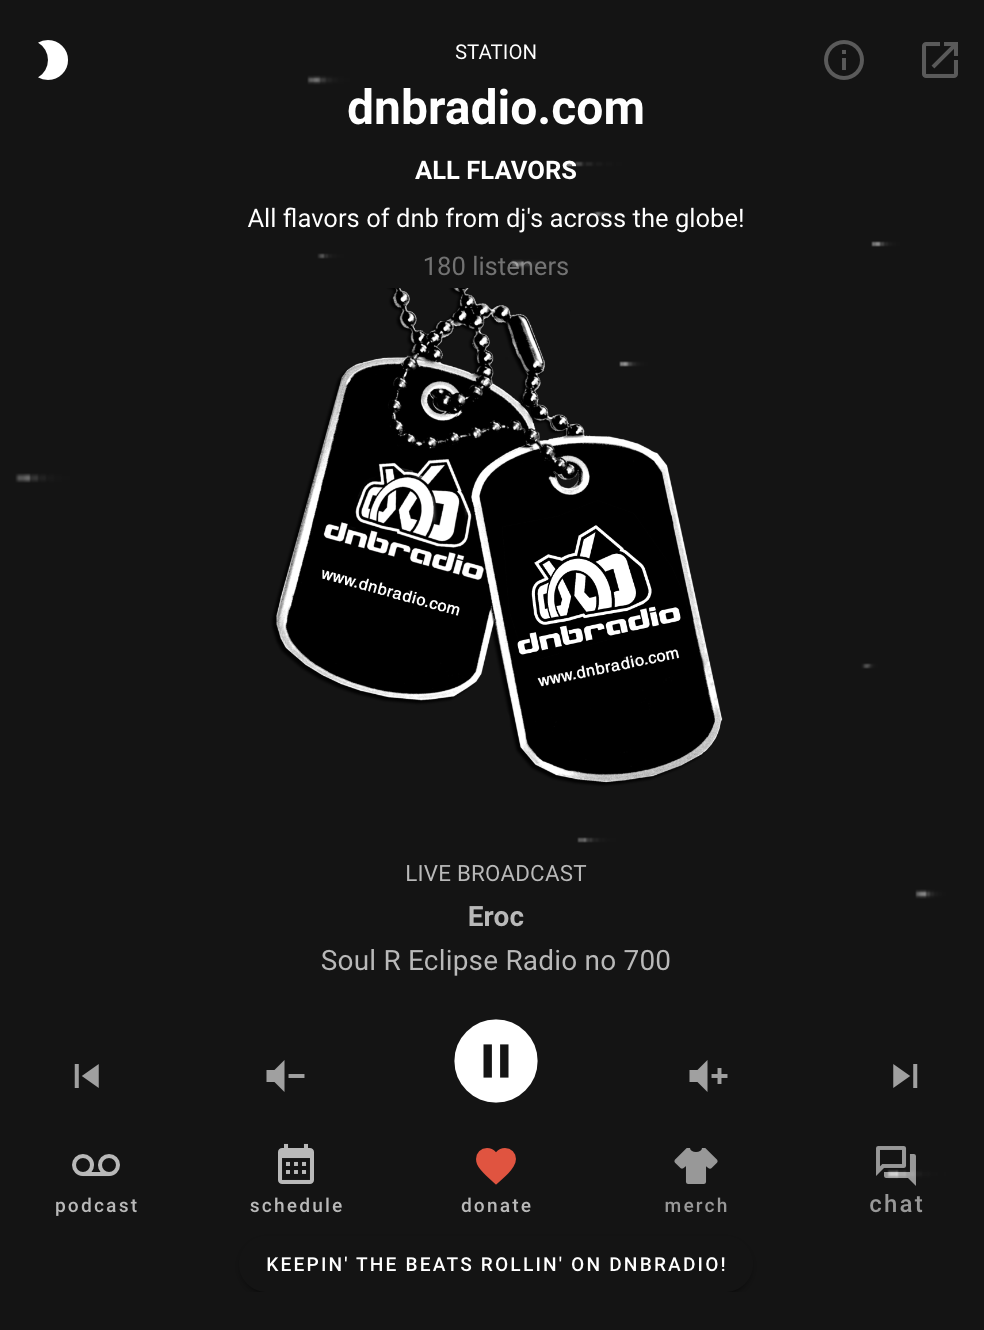
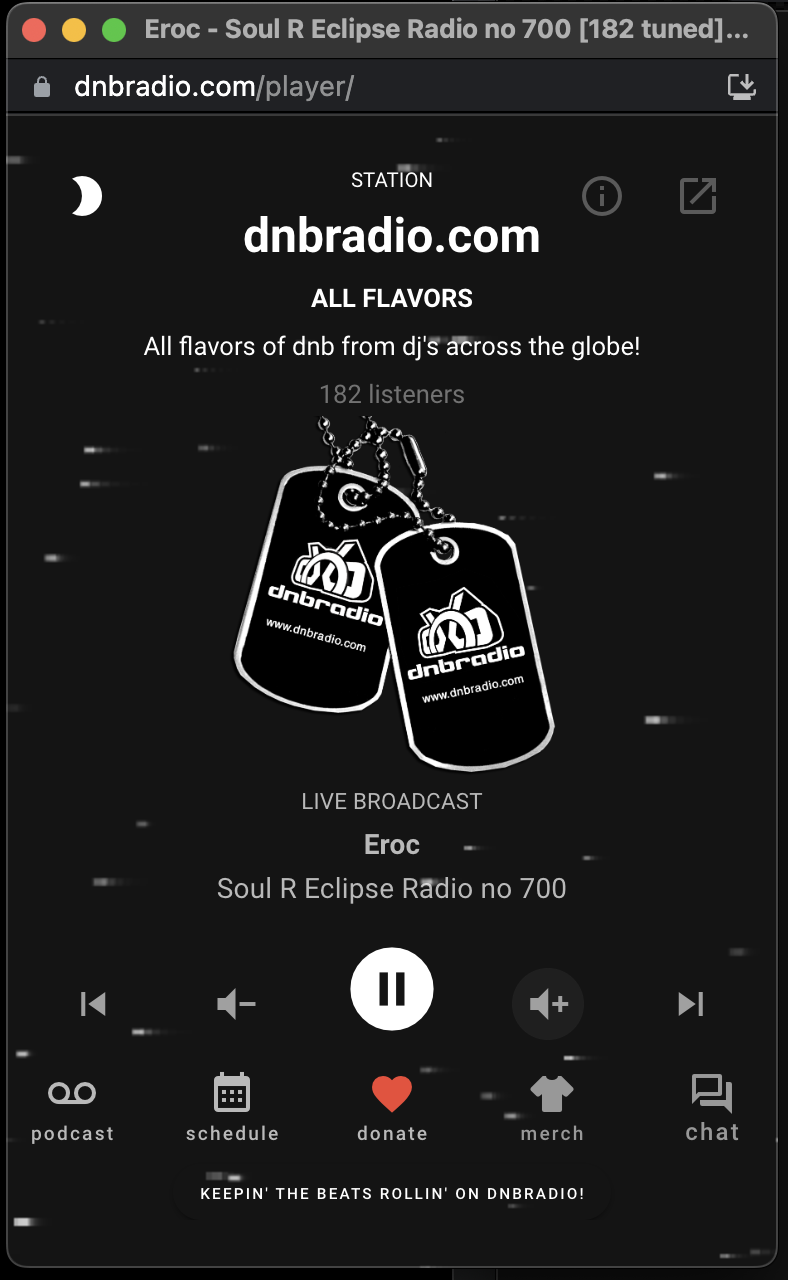
add screenshot to readme

diff --git a/README.md b/README.md
@@ -1,6 +1,14 @@
 # dnbradio-player
 
-> dnbradio-player
+Live example:
+
+> A production instance of `dnbradio-player` can be found here: https://dnbradio.com/player
+
+![dnbradio-player](https://github.com/dnbradio/dnbradio-player/raw/main/static/dnbradio-screenshot.png)
+
+This project can be run with minimal setup.
+
+> See env.example for environment variables to get you started.
 
 ## Build Setup
 
